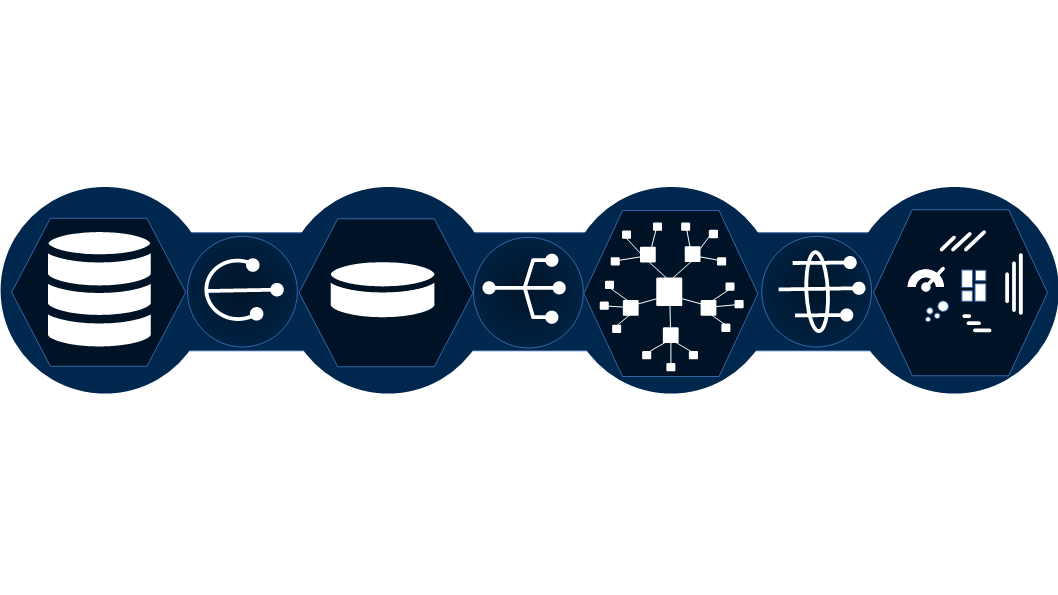
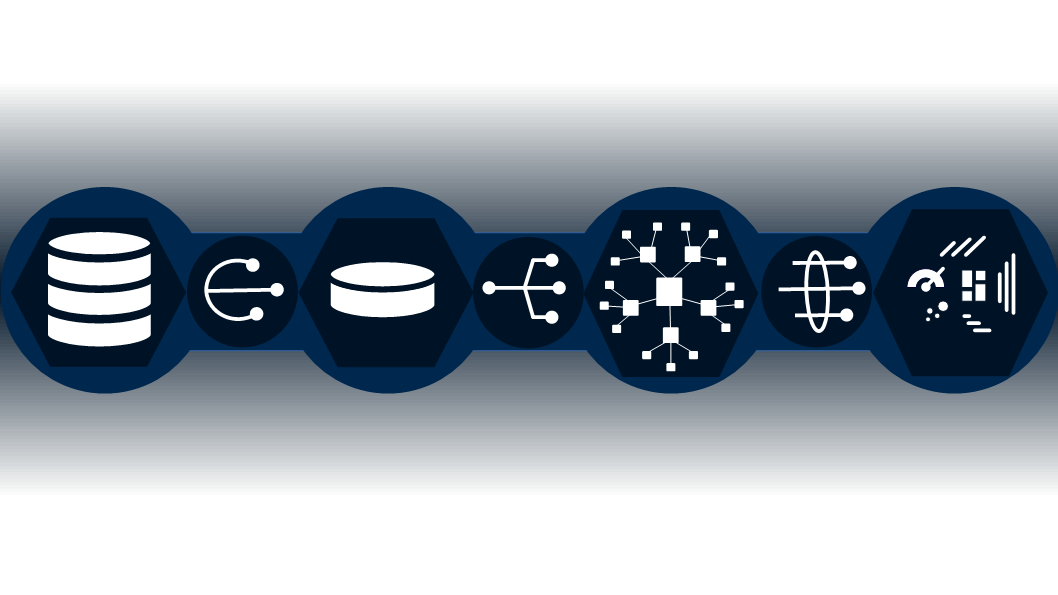
Data Architecture

diff --git a/index.md b/index.md
@@ -24,7 +24,7 @@ feature_row:
   - image_path: /assets/images/ERPODS_AdamHeinz.png
     title: "Data Architecture"
     excerpt: "Operational Reporting: Accounts Payable"
-    url: /vitae/2024-data-quality-engineer-meridian/
+    url: /vitae/2018-bi-developer-pgw/
     btn_label: "Read More"
     btn_class: "btn--primary"
 
